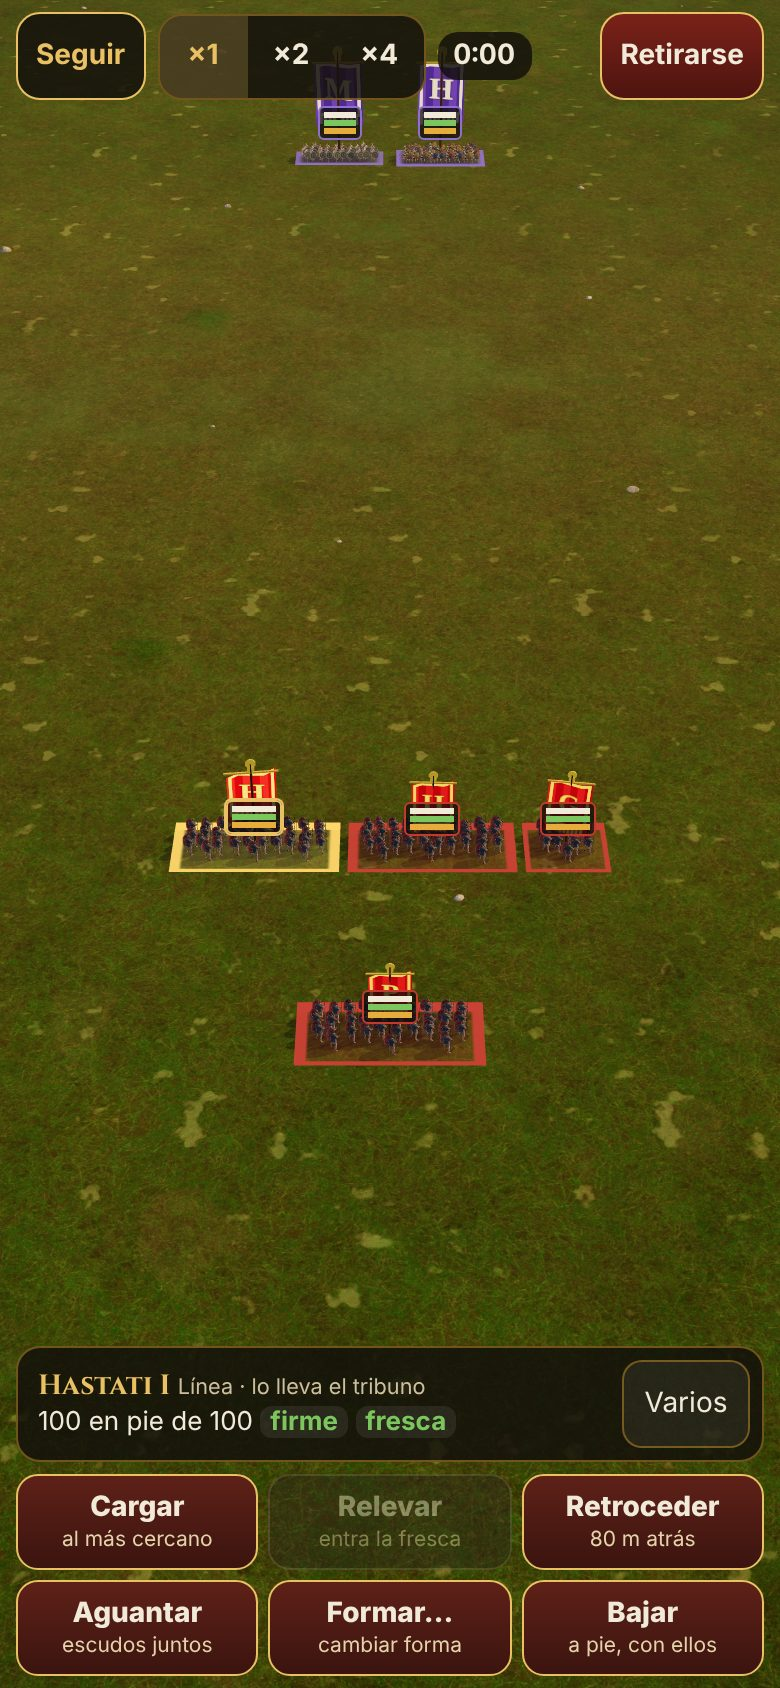
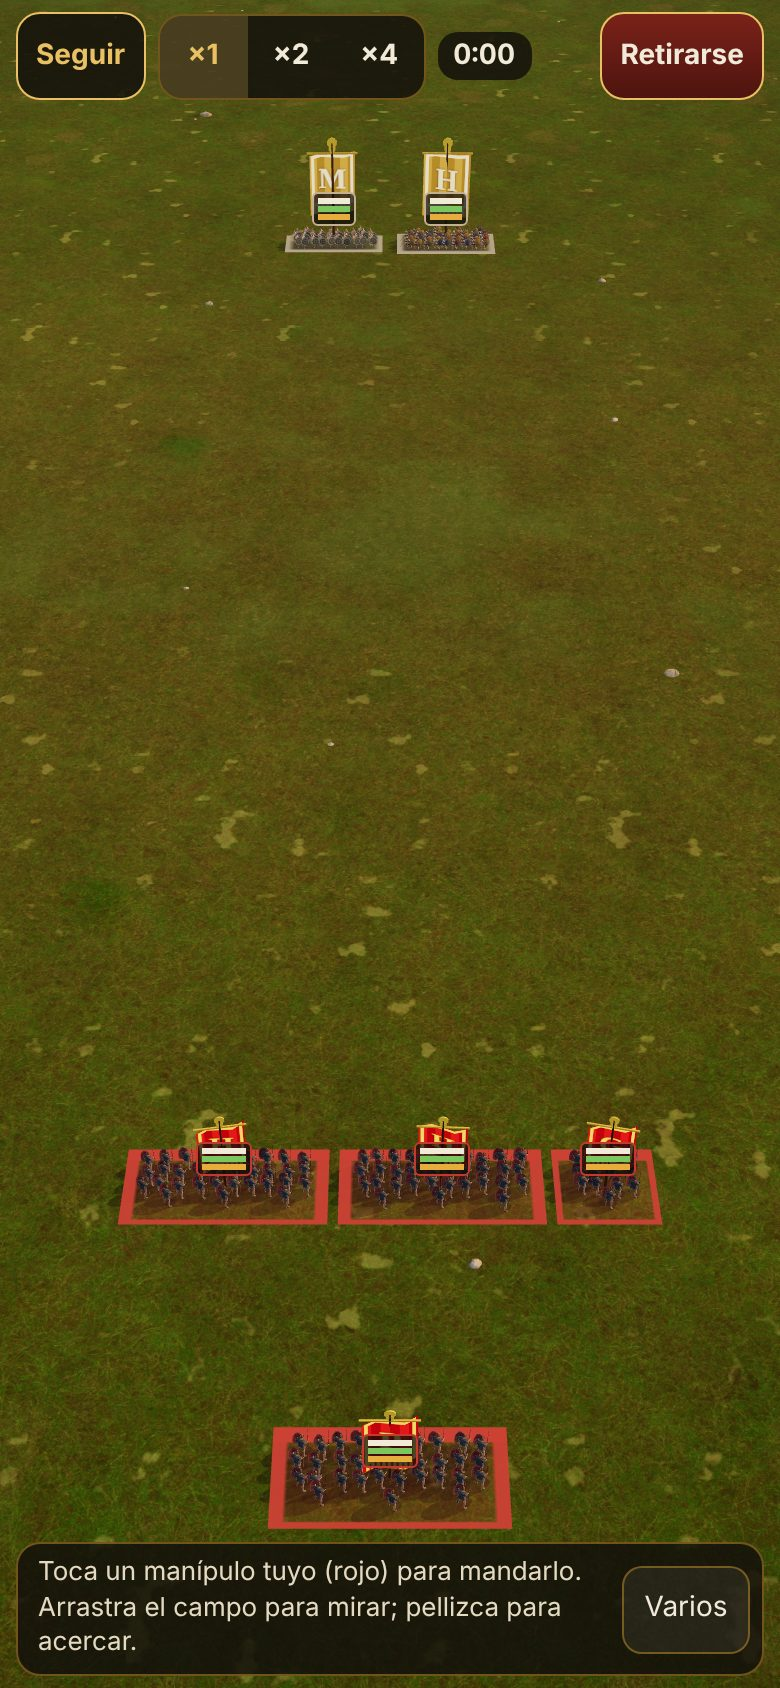
CG4b: encuadre inicial, color del rival, cartel de resultado legible, novedades v169
Claude-Session: https://claude.ai/code/session_01QiKC38upZx7kxM5LX1HjK9

diff --git a/js/ui-mando.js b/js/ui-mando.js
@@ -71,7 +71,12 @@
   function pantalla(mods, el, $, cfg, S, alTerminar) {
     const { M, U, Gr, St, C } = mods, Sim = root.Simulador;
     const { THREE } = M, { preload, getUnit, unitMaterialReal, instancedGeometry, frameOf, frameOnce, UNIT_SCALE } = U;
-    const COLOR = ['#b3261e', '#5b3a8c'];
+    /* CG4b: el rival lleva el color de su bando (cfg.col, el de la campaña o de Escaramuzas); si no viene o se confunde con el rojo
+       de Roma, el morado de siempre */
+    const rivalDe = col => { try { if (!col) return null; const c = new THREE.Color(col), h = {}; c.getHSL(h); const dh = Math.min(h.h, 1 - h.h) * 360;
+      return dh < 30 && h.s > 0.35 ? null : '#' + c.getHexString(); } catch (e) { return null; } };
+    const COLOR = ['#b3261e', rivalDe(cfg.col) || '#5b3a8c'];
+    { const c = new THREE.Color(COLOR[1]); el.style.setProperty('--mn-rival', '#' + c.clone().lerp(new THREE.Color('#ffffff'), 0.25).getHexString()); }
     /* el soldado nuevo (js/gfx/soldado.js) para estas tropas; las demás (a caballo, elefantes), con 0 A.D. */
     const NUEVO = { hastati: 'hastatus', principes: 'hastatus', vigiles: 'hastatus', galos: 'galo', libios: 'hastatus:libio', triarii: 'triario', velites: 'velite', milicia: 'velite:milicia', honderos: 'hondero', peltastas: 'peltasta', hoplitas: 'hoplita:griego', sagrada: 'hoplita:sagrada', falange: 'falangita', iberos: 'ibero' };
     const UMBRAL_N = [200, 90, 42];      /* alto en pantalla (px CSS) desde el que toca el nivel 0, 1 y 2; por debajo, el 3 */
@@ -181,20 +186,36 @@
       cam.d = Math.max(D_MIN, Math.min(D_MAX, cam.d)); cam.x = Math.max(-700, Math.min(700, cam.x)); cam.z = Math.max(-420, Math.min(420, cam.z));
       const p = inclina(cam.d); camara.position.set(cam.x, Math.sin(p) * cam.d, cam.z + Math.cos(p) * cam.d); camara.lookAt(cam.x, 0, cam.z); camara.updateMatrixWorld();
     }
+    /* CG4b: el encuadre inicial deja ver los dos ejércitos enteros en la parte libre de la pantalla: entre la barra de arriba
+       y la ficha de abajo (en horizontal, también sobre los botones de órdenes, que salen al elegir). Desde detrás de la legión,
+       como en Total War; se acerca todo lo que se pueda sin cortar a nadie. */
+    function libre() {   /* arriba se dejan 54 px más: los estandartes miden al menos 46 en pantalla (js/gfx/estandartes.js) */
+      const r = id => { const e = $(id); return e && !e.hidden ? e.getBoundingClientRect() : null; };
+      const ar = r('arriba'), ab = r('ficha');
+      let arriba = (ar ? ar.bottom + 8 : 60) + 54, abajo = ab && ab.height ? ab.top - 8 : alto - 80;
+      if (!vertical) abajo = Math.min(abajo, alto - 118);   /* en horizontal, los botones de órdenes ocupan unos 110 px de abajo */
+      if (abajo - arriba < alto * 0.3) { arriba = alto * 0.12; abajo = alto * 0.8; }
+      return { arriba, abajo, izq: 10, der: ancho - 10 };
+    }
     function camaraInicial() {
-      let x0 = 1e9, x1 = -1e9, z0 = 1e9, z1 = -1e9;
-      for (const u of S.man) if (vivo(u)) { x0 = Math.min(x0, u.x); x1 = Math.max(x1, u.x); z0 = Math.min(z0, -u.y); z1 = Math.max(z1, -u.y); }
-      if (x0 > x1) { x0 = -100; x1 = 100; z0 = -100; z1 = 100; }
-      /* detrás de la legión, como en Total War: se ve el frente propio entero y, al fondo, el enemigo; lo demás, desplazando */
-      let r0 = 1e9, r1 = -1e9; for (const u of S.man) if (vivo(u) && u.lado === 0 && u.tropa !== 'velites') { r0 = Math.min(r0, u.x - Sim.frente(u) / 2); r1 = Math.max(r1, u.x + Sim.frente(u) / 2); }
-      if (r0 > r1) { r0 = x0; r1 = x1; }
-      const tanH = Math.tan(camara.fov * Math.PI / 360) * camara.aspect, medio = (r1 - r0) / 2 + 20;
-      cam.x = (r0 + r1) / 2; cam.d = Math.min(vertical ? 380 : 420, Math.max(140, medio / tanH * 1.05));
-      /* el frente romano, a esta altura de la pantalla (de arriba abajo); se busca el punto que mira la cámara */
-      let zR = -1e9; for (const u of S.man) if (vivo(u) && u.lado === 0 && u.tropa !== 'velites') zR = Math.max(zR, -u.y); if (zR < -1e8) zR = z1;
-      const meta = vertical ? 0.6 : 0.68; let lo = zR - 400, hi = zR - 2;
-      for (let k = 0; k < 30; k++) { cam.z = (lo + hi) / 2; ponCamara(); V3.set(cam.x, 0, zR - 3).project(camara); if (V3.z > 1 || (1 - V3.y) / 2 > meta) lo = cam.z; else hi = cam.z; }
-      ponCamara();
+      const us = S.man.filter(vivo); if (!us.length) { cam.x = 0; cam.z = 0; cam.d = 300; ponCamara(); return; }
+      const L = libre(), pts = [];
+      for (const u of us) { const F = Sim.frente(u) / 2 + 2, Df = Sim.fondo(u) / 2 + 2, c = Math.cos(u.a), sn = Math.sin(u.a);
+        for (const [a, b] of [[-F, -Df], [F, -Df], [-F, Df], [F, Df]]) { const x = u.x + a * sn + b * c, y = u.y - a * c + b * sn; pts.push([x, 0, -y]); } }   /* las esquinas, en el suelo (el estandarte va en el margen de arriba) */
+      let x0 = 1e9, x1 = -1e9; for (const p of pts) { x0 = Math.min(x0, p[0]); x1 = Math.max(x1, p[0]); }
+      const caja = () => { let a = 1e9, b = -1e9, l = 1e9, r = -1e9, atras = false; for (const p of pts) { V3.set(p[0], p[1], p[2]).project(camara); if (V3.z > 1) atras = true; const px = (V3.x + 1) / 2 * ancho, py = (1 - V3.y) / 2 * alto; a = Math.min(a, py); b = Math.max(b, py); l = Math.min(l, px); r = Math.max(r, px); } return { a, b, l, r, atras }; };
+      const enZ = () => {   /* coloca cam.z para que la caja quede centrada en vertical en la parte libre */
+        let lo = -900, hi = 900; const meta = (L.arriba + L.abajo) / 2;
+        for (let k = 0; k < 40; k++) { cam.z = (lo + hi) / 2; ponCamara(); const q = caja(); if (q.atras || (q.a + q.b) / 2 > meta) lo = cam.z; else hi = cam.z; }   /* subir cam.z sube lo que se ve en pantalla */
+        ponCamara(); return caja();
+      };
+      cam.x = (x0 + x1) / 2;
+      let mejor = null;
+      for (let d = 120; d <= D_MAX; d += 10) {
+        cam.d = d; const q = enZ();
+        if (!q.atras && q.a >= L.arriba && q.b <= L.abajo && q.l >= L.izq && q.r <= L.der) { mejor = d; break; }
+      }
+      cam.d = mejor || D_MAX; enZ();
     }
 
     /* ---------- figuras: cada manípulo, k figuras dentro de su rectángulo frente × fondo ---------- */
@@ -264,7 +285,7 @@
     function crearEst(ES) {
       const cel = {}, letras = []; let k = [0, 0];
       for (const u of S.man) { const c = u.lado + ':' + u.tropa; if (cel[c] === undefined) { cel[c] = k[u.lado]++ % 8; letras.push([String(nombreTropa(u.tropa)).trim().charAt(0).toUpperCase(), u.lado, cel[c]]); } celdaDe[u.id] = cel[c]; }
-      return ES.crearEstandartes({ THREE, escena, n: S.man.length, talla: TALLA, letras });
+      return ES.crearEstandartes({ THREE, escena, n: S.man.length, talla: TALLA, letras, pano: COLOR });
     }
     function pintarEstandartes() {
       if (!estandartes) return; const al = Math.max(0, Math.min(1, acum / PASO));
@@ -399,7 +420,7 @@
 
     /* ---------- rectángulos en el suelo, fantasmas y flecha ---------- */
     const MT = new THREE.Matrix4(), QT = new THREE.Quaternion(), PT = new THREE.Vector3(), ST = new THREE.Vector3(), YT = new THREE.Vector3(0, 1, 0), CT = new THREE.Color();
-    const C_PROPIO = new THREE.Color('#e0483a'), C_RIVAL = new THREE.Color('#9a78e0'), C_SEL = new THREE.Color('#ffd76a'), C_ROTO = new THREE.Color('#77716a');
+    const C_PROPIO = new THREE.Color('#e0483a'), C_RIVAL = new THREE.Color(COLOR[1]).lerp(new THREE.Color('#ffffff'), 0.3), C_SEL = new THREE.Color('#ffd76a'), C_ROTO = new THREE.Color('#77716a');
     function rect(malla, i, x, y, a, F, Df, h) { PT.set(x, h, -y); QT.setFromAxisAngle(YT, yawDe(a)); ST.set(F + 3, 1, Df + 3); MT.compose(PT, QT, ST); malla.setMatrixAt(i, MT); }
     let arrastre = null;      /* { dx, dy, a } mientras se arrastra una orden */
     function pintarSuelo() {

diff --git a/js/gfx/estandartes.js b/js/gfx/estandartes.js
@@ -5,6 +5,7 @@
    Crece con la distancia para que de lejos siga viéndose (licencia de vista, como en los juegos de referencia).
    Coste: dos llamadas de dibujo en total (astas y paños, instanciados) y ~60 triángulos por unidad. Arte propio, dibujado aquí.
    Uso: const E = crearEstandartes({ THREE, escena, n, talla, letras: [[letra, lado], …] });
+     (CG4b: pano = [propio, rival] cambia el color de los paños; sin él, rojo y morado)
      E.pon(i, x, z, celda, lado, estado)   estado: 0 normal, 1 elegido, 2 roto (huye), -1 oculto
      E.fin(camara, altoPx, t)              al acabar de ponerlos, una vez por cuadro
      E.alto(i)                             alto (m) del último estandarte puesto en i: para colgar debajo las barras
@@ -12,18 +13,21 @@
 const CELDAS = 8, CW = 96, CH = 128;
 const PANO = ['#b3261e', '#5b3a8c'], ORLA = ['#e8c25a', '#d8d0b8'];
 
-function atlas(THREE, letras) {
+function atlas(THREE, letras, PANO) {
+  /* la orla y la letra: clara sobre paño oscuro; sobre un paño claro (amarillo, ocre), oscura para que se lea */
+  const claro = col => { const c = new THREE.Color(col); return 0.299 * c.r + 0.587 * c.g + 0.114 * c.b > 0.42; };
+  const orla = [0, 1].map(l => claro(PANO[l]) ? '#2a1e12' : ORLA[l]), ORLA_ = orla;
   const c = document.createElement('canvas'); c.width = CW * CELDAS; c.height = CH * 2; const g = c.getContext('2d');
   for (let lado = 0; lado < 2; lado++) for (let k = 0; k < CELDAS; k++) {
     const x = k * CW, y = lado * CH;
     g.fillStyle = PANO[lado]; g.fillRect(x, y, CW, CH);
     /* pliegues: bandas verticales más oscuras y más claras */
     for (let b = 0; b < 6; b++) { g.fillStyle = b % 2 ? 'rgba(0,0,0,0.13)' : 'rgba(255,255,255,0.06)'; g.fillRect(x + b * CW / 6, y, CW / 6, CH - 16); }
-    g.strokeStyle = ORLA[lado]; g.lineWidth = 6; g.strokeRect(x + 7, y + 5, CW - 14, CH - 26);
+    g.strokeStyle = ORLA_[lado]; g.lineWidth = 6; g.strokeRect(x + 7, y + 5, CW - 14, CH - 26);
     /* flecos abajo */
-    g.fillStyle = ORLA[lado]; for (let f = 0; f < 9; f++) g.fillRect(x + 6 + f * (CW - 12) / 9, y + CH - 18, 5, 16);
+    g.fillStyle = ORLA_[lado]; for (let f = 0; f < 9; f++) g.fillRect(x + 6 + f * (CW - 12) / 9, y + CH - 18, 5, 16);
     const l = letras.find(q => q[2] === k && q[1] === lado);
-    g.fillStyle = ORLA[lado]; g.font = 'bold 62px Georgia, "Times New Roman", serif'; g.textAlign = 'center'; g.textBaseline = 'middle';
+    g.fillStyle = ORLA_[lado]; g.font = 'bold 62px Georgia, "Times New Roman", serif'; g.textAlign = 'center'; g.textBaseline = 'middle';
     g.shadowColor = 'rgba(0,0,0,0.55)'; g.shadowBlur = 4;
     g.fillText(l ? l[0] : '', x + CW / 2, y + CH / 2 - 6); g.shadowBlur = 0;
   }
@@ -43,8 +47,8 @@ function asta(THREE) {
   return g;
 }
 
-export function crearEstandartes({ THREE, escena, n, talla = 1, letras = [] }) {
-  const tex = atlas(THREE, letras);
+export function crearEstandartes({ THREE, escena, n, talla = 1, letras = [], pano = null }) {
+  const tex = atlas(THREE, letras, pano || PANO);   /* CG4b: pano = [color propio, color rival] (el del bando rival en la campaña) */
   const gA = asta(THREE), mA = new THREE.MeshLambertMaterial({ vertexColors: true });
   const astas = new THREE.InstancedMesh(gA, mA, n); astas.frustumCulled = false;
   /* el paño: cuelga del travesaño (arriba en y = 0), 0,46 de ancho por 0,6 de alto; algo curvado; la celda del atlas va por instancia */

diff --git a/css/mando.css b/css/mando.css
@@ -15,7 +15,7 @@
 
 /* barras sobre cada manípulo: hombres, moral, cansancio (lleno = fresco) */
 #mn .mn-e{position:absolute;left:0;top:0;width:28px;margin:-15px 0 0 -14px;padding:2px;border-radius:3px;background:rgba(14,11,8,.72);border:1px solid #c23a2e;display:flex;flex-direction:column;gap:1px;will-change:transform}
-#mn .mn-e.ene{border-color:#8f6fd0;width:22px;margin-left:-11px}
+#mn .mn-e.ene{border-color:var(--mn-rival,#8f6fd0);width:22px;margin-left:-11px}
 #mn .mn-e.sel{border-color:var(--oro);box-shadow:0 0 0 1px var(--oro)}
 #mn .mn-e.roto{opacity:.55}
 #mn .mn-e i{display:block;height:3px;background:rgba(255,255,255,.14);overflow:clip}
